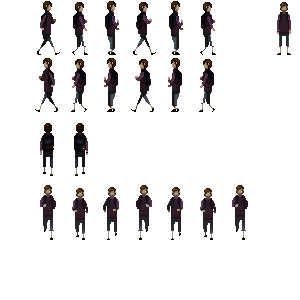
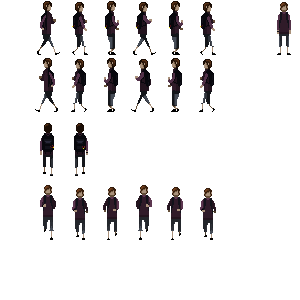
remove frame 7 from walk down animation

Changed region(s): [[0.75, 0.6, 0.84, 0.78]]

diff --git a/src/LostAndFound.Core/Content/PlayerAnimationSet.cs b/src/LostAndFound.Core/Content/PlayerAnimationSet.cs
@@ -61,8 +61,7 @@ namespace LostAndFound.Core.Content
                 playerAnimationMap.CreateSpriteFromRegion("Walk_Down_3"),
                 playerAnimationMap.CreateSpriteFromRegion("Walk_Down_4"),
                 playerAnimationMap.CreateSpriteFromRegion("Walk_Down_5"),
-                playerAnimationMap.CreateSpriteFromRegion("Walk_Down_6"),
-                playerAnimationMap.CreateSpriteFromRegion("Walk_Down_7")
+                playerAnimationMap.CreateSpriteFromRegion("Walk_Down_6")
             })
             {
                 FrameDuration = 0.2f
